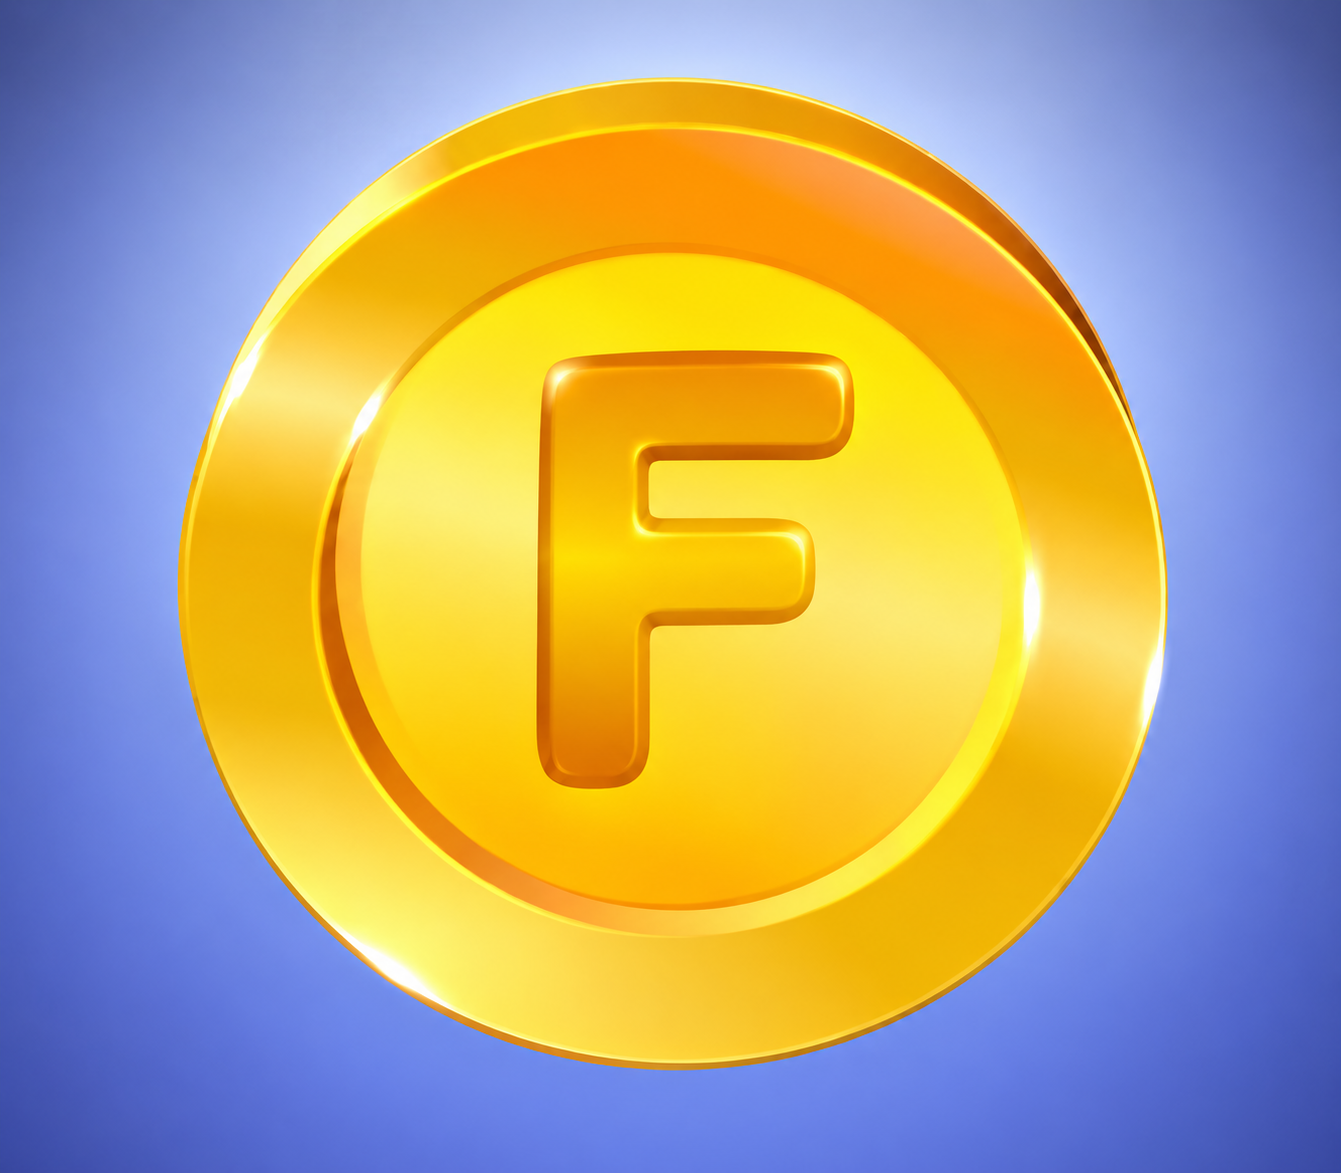
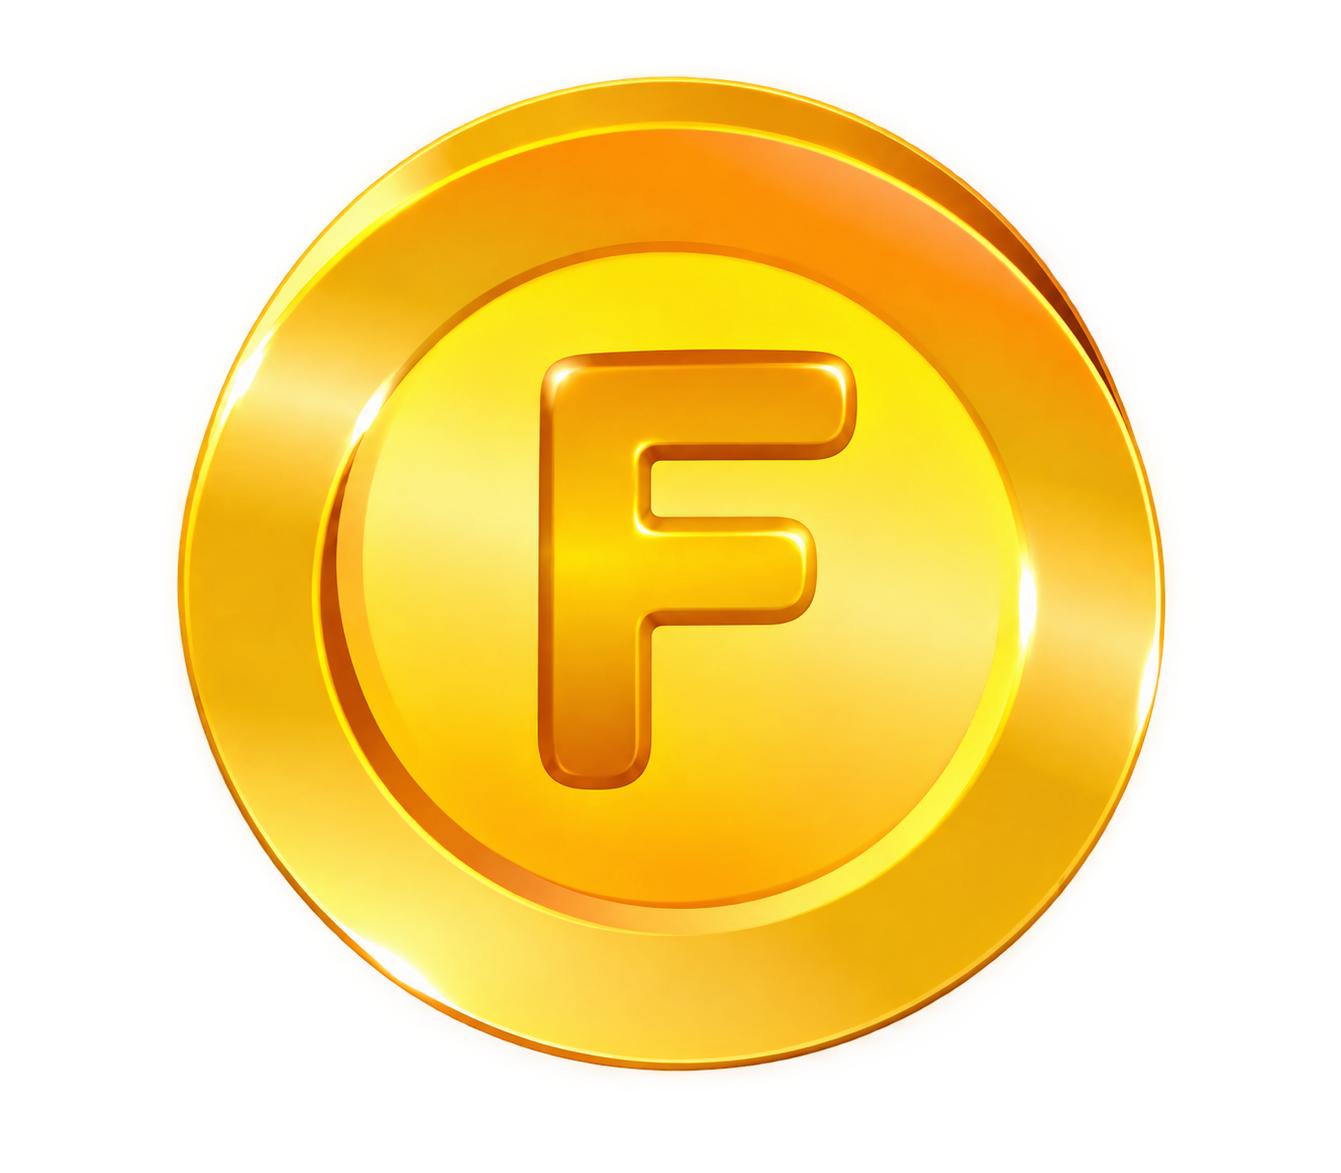
Add files via upload

diff --git a/index.html b/index.html
@@ -88,9 +88,10 @@
     .balance-unit { font-size:13px; color:var(--gold); margin-right:6px; text-shadow:0 0 14px #ffd45a80; }
     .wallet-icon { position:relative; width:42px; height:42px; flex:none; border-radius:50%; display:grid; place-items:center; font-size:20px; color:#fff1b4; background:linear-gradient(145deg,#fff4a9,#f7b824 60%,#b45a12); border:1px solid #fff4b878; box-shadow:inset 0 2px 3px #fff9, inset 0 -4px 7px #74370a8c,0 5px 14px #e99f2440; text-shadow:0 2px 3px #74400b; }
     .coin-area { min-height:clamp(300px, 45vh, 390px); display:flex; align-items:center; justify-content:center; flex-direction:column; padding:3px 0 5px; perspective:1100px; }
-    .coin-button { position:relative; isolation:isolate; display:grid; place-items:center; border:0; cursor:pointer; width:min(72vw, 310px); aspect-ratio:1; border-radius:50%; padding:0; color:inherit; background:transparent; filter:drop-shadow(0 21px 20px #0009) drop-shadow(0 0 20px #ffb51e55); transform:perspective(900px) rotateX(4deg) rotateY(0deg); transform-origin:center; transition:transform .15s cubic-bezier(.22,.7,.25,1),filter .15s ease; backface-visibility:hidden; user-select:none; touch-action:none; -webkit-user-select:none; }
+    .coin-button { position:relative; isolation:isolate; display:grid; place-items:center; border:0; cursor:pointer; width:min(75vw, 326px); aspect-ratio:1; border-radius:50%; padding:0; color:inherit; background:transparent; filter:drop-shadow(0 21px 20px #0009) drop-shadow(0 0 20px #ffb51e55); transform:perspective(900px) rotateX(4deg) rotateY(0deg); transform-origin:center; transition:transform .15s cubic-bezier(.22,.7,.25,1),filter .15s ease; backface-visibility:hidden; user-select:none; touch-action:none; -webkit-user-select:none; }
     .coin-button:before,.coin-button:after { content:none; }
     .coin-button.is-pressed { transform:perspective(900px) rotateX(calc(4deg + var(--tap-rot-x,0deg))) rotateY(var(--tap-rot-y,0deg)) translateZ(-4px) scale(.99); filter:drop-shadow(0 12px 10px #000b) drop-shadow(0 0 13px #ffb51e35) brightness(.92); transition-duration:.07s; }
+    .coin-button.is-boosted { filter:drop-shadow(0 21px 20px #0009) drop-shadow(0 0 24px #a442ffb5); }
     .coin-button:disabled { cursor:wait; filter:saturate(.9) brightness(.94); }
     .coin-face { position:absolute; z-index:1; inset:0; width:100%; height:100%; border-radius:50%; pointer-events:none; object-fit:contain; }
     .coin-engraving,.coin-letter,.coin-glint { display:none; }
@@ -101,6 +102,34 @@
     .tap-hint { margin-top:22px; color:#c5c2d0; font-size:13px; }
     .tap-hint strong { color:var(--gold); }
     .tap-hint strong { display:inline-block; padding:5px 10px; margin-right:3px; border:1px solid #ffd45a28; border-radius:999px; background:linear-gradient(135deg,#ffd45a16,#ffad3208); box-shadow:inset 0 1px #fff2,0 4px 14px #0002; }
+    .tap-actions { display:flex; direction:ltr; align-items:center; justify-content:center; gap:10px; margin-top:15px; }
+    .tap-actions .tap-hint { direction:rtl; margin:0; }
+    .boost-control { display:flex; align-items:center; gap:6px; }
+    .boost-button { position:relative; overflow:hidden; min-width:108px; border:1px solid #dd9dff70; border-radius:13px; padding:10px 15px; color:#fff; background:linear-gradient(120deg,#8e2de2,#4a00e0 55%,#b64cff); box-shadow:0 0 18px #9d45ff55,inset 0 1px #fff6; font-size:13px; font-weight:900; cursor:pointer; transition:transform .12s ease,filter .15s ease; }
+    .boost-button:before { content:""; position:absolute; inset:-50% auto -50% -35%; width:22px; transform:rotate(25deg); background:#ffffff50; filter:blur(6px); animation:boost-shine 2.8s ease-in-out infinite; pointer-events:none; }
+    .boost-button:active { transform:scale(.96); }
+    .boost-button:disabled { opacity:.48; cursor:not-allowed; filter:saturate(.55); }
+    .boost-count { min-width:39px; padding:6px 7px; border:1px solid #c89bff45; border-radius:10px; color:#e7c7ff; background:#7d36ba24; direction:ltr; text-align:center; font-size:11px; font-weight:900; font-variant-numeric:tabular-nums; }
+    .boost-button.is-active { box-shadow:0 0 23px #bd62ffb5,inset 0 1px #fff9; animation:boost-pulse .8s ease-in-out infinite alternate; }
+    @keyframes boost-shine { 0%,70% { left:-35%; } 100% { left:130%; } }
+    @keyframes boost-pulse { to { filter:brightness(1.3); } }
+    @media (max-width:380px) {
+      .tap-actions { gap:6px; }
+      .boost-button { min-width:88px; padding:9px 10px; }
+      .boost-count { min-width:35px; padding:6px 5px; }
+      .tap-hint { font-size:11px; }
+      .tap-hint strong { padding:5px 7px; }
+    }
+    .boost-dialog { width:min(calc(100% - 36px),420px); padding:0; border:1px solid #d39aff88; border-radius:22px; color:#fff; background:radial-gradient(ellipse at 50% 0,#8b35dc35,transparent 65%),#171420; box-shadow:0 22px 80px #000b,0 0 32px #a744ff2c; }
+    .boost-dialog::backdrop { background:#08060dcc; backdrop-filter:blur(5px); }
+    .boost-dialog-content { padding:23px; text-align:center; }
+    .boost-dialog-icon { width:58px; height:58px; margin:0 auto 12px; display:grid; place-items:center; border:1px solid #e0b6ff70; border-radius:19px; background:linear-gradient(145deg,#af60ff,#6218ba); box-shadow:0 0 22px #a744ff70; font-size:29px; }
+    .boost-dialog h2 { margin:0 0 9px; font-size:19px; }
+    .boost-dialog p { margin:0; color:#cbc4d8; font-size:12px; line-height:2; }
+    .boost-dialog-actions { display:grid; grid-template-columns:1fr 1fr; gap:9px; margin-top:18px; }
+    .boost-dialog-actions button { border:1px solid var(--border); border-radius:12px; padding:12px 8px; background:#ffffff0c; cursor:pointer; font-size:12px; font-weight:800; }
+    .boost-dialog-actions .boost-confirm { border-color:#d2a0ff66; color:#fff; background:linear-gradient(110deg,#a143ee,#6922bd); }
+    .boost-dialog-actions button:disabled { opacity:.5; cursor:wait; }
     .energy-card { background:var(--panel); border:1px solid var(--border); border-radius:18px; padding:15px 16px; }
     .energy-top { display:flex; justify-content:space-between; align-items:center; font-size:13px; }
     .energy-top span:first-child { color:#e9e7f0; }
@@ -196,7 +225,7 @@
     .tab-button:focus-visible,.upgrade-button:focus-visible,.invite-actions button:focus-visible { outline:2px solid #ffe28b; outline-offset:2px; }
     footer { color:#656371; font-size:10px; text-align:center; padding-top:17px; }
     @media (max-width:380px) { .app { padding-left:15px;padding-right:15px; } h1{font-size:23px;} .tab-bar{gap:2px;padding:5px;} .tab-button{font-size:9px;padding:8px 2px;} .tab-button span{font-size:16px;} }
-    @media (max-width:360px), (max-height:700px) { .coin-area{min-height:265px;padding:0;} .coin-button{width:min(65vw,252px);} .tap-hint{margin-top:12px;} }
+    @media (max-width:360px), (max-height:700px) { .coin-area{min-height:265px;padding:0;} .coin-button{width:min(69vw,264px);} .tap-hint{margin-top:12px;} }
     @media (prefers-reduced-motion: reduce) { .coin-button { transition-duration:.01ms !important; } .tap-float { animation-duration:.01ms; } }
   </style>
 </head>
@@ -231,7 +260,13 @@
         <button id="tapButton" class="coin-button" type="button" aria-label="جمع کردن یک F Coin" disabled>
           <img id="coinImage" class="coin-face" src="FCoin.png" alt="" draggable="false">
         </button>
-        <div class="tap-hint">هر ضربه <strong id="tapPowerHint">+1 F Coin</strong></div>
+        <div class="tap-actions">
+          <div class="boost-control">
+            <button id="boostButton" class="boost-button" type="button" disabled>تقویت</button>
+            <span id="boostCount" class="boost-count">0/3</span>
+          </div>
+          <div class="tap-hint">هر ضربه <strong id="tapPowerHint">+1 F Coin</strong></div>
+        </div>
       </section>
       <section class="energy-card" aria-label="انرژی">
         <div class="energy-top"><span>⚡ انرژی</span><span class="energy-count"><b id="energyValue">—</b> <em>/ <span id="energyMax">1000</span></em></span></div>
@@ -240,6 +275,17 @@
       </section>
       <footer>موجودی شما از سرور دریافت و تأیید میشود.</footer>
     </section>
+    <dialog id="boostDialog" class="boost-dialog" aria-labelledby="boostDialogTitle">
+      <div class="boost-dialog-content">
+        <div class="boost-dialog-icon" aria-hidden="true">⚡</div>
+        <h2 id="boostDialogTitle">تقویت ویژه</h2>
+        <p>با فعالسازی، قدرت هر ضربهات ۵ برابر میشود و بهمدت ۱۰ ثانیه بدون مصرف انرژی میتوانی ضربه بزنی؛ حتی اگر انرژیات صفر باشد. این قابلیت روزانه ۳ بار قابل استفاده است.<br><br>الان فعالش میکنی؟</p>
+        <div class="boost-dialog-actions">
+          <button id="boostCancelButton" type="button">فعلاً نه</button>
+          <button id="boostConfirmButton" class="boost-confirm" type="button">بله، فعال کن</button>
+        </div>
+      </div>
+    </dialog>
     <section id="convertPanel" class="tab-panel" aria-label="تبدیل">
       <div class="placeholder-card">
         <div class="placeholder-icon">🔄</div>
@@ -362,6 +408,10 @@
       const selfApp = $("selfApp");
       const missionList = $("missionList");
       const claimDailyButton = $("claimDailyButton");
+      const boostButton = $("boostButton");
+      const boostDialog = $("boostDialog");
+      const boostConfirmButton = $("boostConfirmButton");
+      new Image().src = "boost.png";
       const inviteLink = $("inviteLink");
       const copyInviteButton = $("copyInviteButton");
       const shareInviteButton = $("shareInviteButton");
@@ -374,6 +424,8 @@
       let tapDisplayFrame = 0;
       let tapReleaseTimer = 0;
       let coinBackgroundProcessed = false;
+      let normalCoinImage = "";
+      let boostTicker = 0;
       let selfFeaturePage = 0;
       let selfLockChatId = "";
       const tapLabels = new Set();
@@ -435,10 +487,15 @@
           max_energy: maxEnergy,
           energy_level: inferredEnergyLevel,
           tap_power: tapPower !== null && tapPower > 0 ? tapPower : 1,
+          boost_uses: Number.isInteger(state.boost_uses) ? state.boost_uses : 0,
+          boost_limit: Number.isInteger(state.boost_limit) ? state.boost_limit : 3,
+          boost_until: Number.isFinite(Number(state.boost_until)) ? Number(state.boost_until) : 0,
           upgrades_supported: tapPower !== null &&
             (reportedMaxEnergy !== null || energyLevel !== null)
         };
         connectionError.hidden = true;
+        syncBoostVisual();
+        scheduleBoostTicker();
         updateWalletDisplay();
         renderAccount(serverState);
         updateButtons();
@@ -484,8 +541,10 @@
 
       function updateWalletDisplay() {
         if (!serverState) return;
+        syncBoostVisual();
+        const tapPower = effectiveTapPower();
         $("fcoinBalance").replaceChildren(document.createTextNode(
-          (serverState.fcoin_balance + (queuedTaps + inFlightTaps) * serverState.tap_power).toLocaleString("en-US")
+          (serverState.fcoin_balance + (queuedTaps + inFlightTaps) * tapPower).toLocaleString("en-US")
         ));
         const unit = document.createElement("span");
         unit.className = "balance-unit";
@@ -496,8 +555,41 @@
         $("energyMax").textContent = serverState.max_energy.toLocaleString("en-US");
         $("energyBar").style.width = (energy / serverState.max_energy * 100) + "%";
         $("botBalance").textContent = serverState.bot_coin_balance.toLocaleString("en-US");
-        $("tapPowerHint").textContent = "+" + serverState.tap_power + " F Coin";
-        tapButton.setAttribute("aria-label", "جمع کردن " + serverState.tap_power + " F Coin");
+        $("tapPowerHint").textContent = "+" + tapPower + " F Coin";
+        tapButton.setAttribute("aria-label", "جمع کردن " + tapPower + " F Coin");
+      }
+
+      function isBoostActive() {
+        return !!serverState && serverState.boost_until * 1000 > Date.now();
+      }
+
+      function effectiveTapPower() {
+        return serverState
+          ? serverState.tap_power * (isBoostActive() ? 5 : 1)
+          : 1;
+      }
+
+      function syncBoostVisual() {
+        const image = $("coinImage");
+        const source = isBoostActive() ? "boost.png" : (normalCoinImage || "FCoin.png");
+        if (image.getAttribute("src") !== source) image.setAttribute("src", source);
+        tapButton.classList.toggle("is-boosted", isBoostActive());
+      }
+
+      function scheduleBoostTicker() {
+        if (isBoostActive() && !boostTicker) {
+          boostTicker = window.setInterval(() => {
+            if (!isBoostActive()) {
+              window.clearInterval(boostTicker);
+              boostTicker = 0;
+            }
+            updateWalletDisplay();
+            updateButtons();
+          }, 200);
+        } else if (!isBoostActive() && boostTicker) {
+          window.clearInterval(boostTicker);
+          boostTicker = 0;
+        }
       }
 
       function availableEnergy() {
@@ -508,7 +600,8 @@
           : 0;
         const regenerated = elapsed * 10 / 60;
         const energy = Math.min(serverState.max_energy, serverState.energy + regenerated);
-        return Math.max(0, energy - (queuedTaps + inFlightTaps) * serverState.tap_power);
+        const reserved = isBoostActive() ? 0 : (queuedTaps + inFlightTaps) * serverState.tap_power;
+        return Math.max(0, energy - reserved);
       }
 
       function renderConnection(connected) {
@@ -526,7 +619,8 @@
       function updateButtons() {
         const canAct = !!serverState;
         tapButton.disabled = busy || !canAct ||
-          Math.floor(availableEnergy() + 1e-9) < serverState.tap_power;
+          (!isBoostActive() && Math.floor(availableEnergy() + 1e-9) < serverState.tap_power);
+        updateBoostControls();
         $("selectAllExchangeButton").disabled = busy || flushingTaps || queuedTaps > 0 ||
           inFlightTaps > 0 || !canAct || serverState.fcoin_balance < 500;
         exchangeButton.disabled = busy || flushingTaps || queuedTaps > 0 || inFlightTaps > 0 ||
@@ -567,8 +661,8 @@
           tapButtonUpgrade.disabled = true;
           return;
         }
-        const energyCosts = [2000, 3000, 4000];
-        const energyTargets = [2000, 3000, 4000];
+        const energyCosts = [2000, 3000, 4000, 5000];
+        const energyTargets = [2000, 3000, 4000, 5000];
         const level = serverState.energy_level;
         if (level >= energyCosts.length) {
           $("energyUpgradeStatus").textContent = "ظرفیت فعلی: " + serverState.max_energy.toLocaleString("en-US") + " · حداکثر";
@@ -588,7 +682,7 @@
             serverState.fcoin_balance < cost;
         }
         const nextPower = serverState.tap_power + 1;
-        if (nextPower > 7) {
+        if (nextPower > 10) {
           $("tapUpgradeStatus").textContent = "قدرت فعلی: +" + serverState.tap_power + " · حداکثر";
           $("tapUpgradeNote").textContent = "همهٔ سطحهای قدرت ضربه را گرفتهای.";
           tapButtonUpgrade.textContent = "قدرت تپ کامل شد ✓";
@@ -605,6 +699,20 @@
           tapButtonUpgrade.disabled = busy || flushingTaps || queuedTaps > 0 || inFlightTaps > 0 ||
             serverState.fcoin_balance < cost;
         }
+      }
+
+      function updateBoostControls() {
+        const uses = serverState ? serverState.boost_uses : 0;
+        const limit = serverState ? serverState.boost_limit : 3;
+        const active = isBoostActive();
+        const remaining = active
+          ? Math.max(1, Math.ceil(serverState.boost_until - Date.now() / 1000))
+          : 0;
+        $("boostCount").textContent = Math.min(uses, limit) + "/" + limit;
+        boostButton.textContent = active ? "فعال · " + remaining + " ثانیه" : "تقویت";
+        boostButton.classList.toggle("is-active", active);
+        boostButton.disabled = busy || !serverState || active || uses >= limit;
+        boostConfirmButton.disabled = busy || !serverState || active || uses >= limit;
       }
 
       async function apiRequest(endpoint, body = {}) {
@@ -1754,6 +1862,10 @@
               ? result.upgrade_cost.toLocaleString("en-US")
               : "";
             showStatus(cost ? title + " ارتقا یافت؛ " + cost + " F Coin پرداخت شد." : successMessage, "info");
+          } else if (endpoint === "boost") {
+            if (typeof boostDialog.close === "function") boostDialog.close();
+            else boostDialog.removeAttribute("open");
+            showStatus("تقویت فعال شد؛ ۱۰ ثانیه فرصت داری!", "info");
           } else {
             showStatus(successMessage, "info");
           }
@@ -1803,7 +1915,7 @@
           event.preventDefault();
         }
         if (!serverState ||
-            Math.floor(availableEnergy() + 1e-9) < serverState.tap_power) return;
+            (!isBoostActive() && Math.floor(availableEnergy() + 1e-9) < serverState.tap_power)) return;
         queuedTaps += 1;
         const keyboardTap = event.type === "click" && event.detail === 0;
         const normalizedX = keyboardTap ? 0.5 :
@@ -1845,7 +1957,7 @@
         }
         const label = document.createElement("span");
         label.className = "tap-float";
-        label.textContent = "+" + serverState.tap_power;
+        label.textContent = "+" + effectiveTapPower();
         label.style.left = (normalizedX * 100) + "%";
         label.style.top = (normalizedY * 100) + "%";
         tapButton.append(label);
@@ -1857,28 +1969,40 @@
       }
 
       function removeCoinBackground() {
-        const image = $("coinImage");
-        if (coinBackgroundProcessed || !image.complete || !image.naturalWidth || !image.naturalHeight) return;
-        const canvas = document.createElement("canvas");
-        canvas.width = image.naturalWidth;
-        canvas.height = image.naturalHeight;
-        const context = canvas.getContext("2d", { willReadFrequently: true });
-        if (!context) throw new Error("پردازش تصویر سکه در این مرورگر پشتیبانی نمیشود.");
-        context.drawImage(image, 0, 0);
-        const pixels = context.getImageData(0, 0, canvas.width, canvas.height);
-        const data = pixels.data;
-        for (let index = 0; index < data.length; index += 4) {
-          const red = data[index];
-          const green = data[index + 1];
-          const blue = data[index + 2];
-          if (blue > red * 1.18 && blue > green * 1.08 && blue - red > 18) {
-            data[index + 3] *= Math.max(0, 1 - (blue - red - 18) / 45);
+        if (coinBackgroundProcessed) return;
+        const image = new Image();
+        image.onload = () => {
+          if (!image.naturalWidth || !image.naturalHeight) return;
+          const canvas = document.createElement("canvas");
+          canvas.width = image.naturalWidth;
+          canvas.height = image.naturalHeight;
+          const context = canvas.getContext("2d", { willReadFrequently: true });
+          if (!context) {
+            showStatus("پردازش تصویر سکه در این مرورگر پشتیبانی نمیشود.", "error");
+            return;
           }
-        }
-        context.putImageData(pixels, 0, 0);
-        coinBackgroundProcessed = true;
-        image.onload = null;
-        image.src = canvas.toDataURL("image/png");
+          try {
+            context.drawImage(image, 0, 0);
+            const pixels = context.getImageData(0, 0, canvas.width, canvas.height);
+            const data = pixels.data;
+            for (let index = 0; index < data.length; index += 4) {
+              const red = data[index];
+              const green = data[index + 1];
+              const blue = data[index + 2];
+              if (blue > red * 1.18 && blue > green * 1.08 && blue - red > 18) {
+                data[index + 3] *= Math.max(0, 1 - (blue - red - 18) / 45);
+              }
+            }
+            context.putImageData(pixels, 0, 0);
+            normalCoinImage = canvas.toDataURL("image/png");
+            coinBackgroundProcessed = true;
+            syncBoostVisual();
+          } catch (error) {
+            showStatus(error && error.message ? error.message : "پسزمینهٔ سکه پردازش نشد.", "error");
+          }
+        };
+        image.onerror = () => showStatus("تصویر اصلی سکه بارگذاری نشد.", "error");
+        image.src = "FCoin.png";
       }
 
       function selectTab(panelId) {
@@ -1904,20 +2028,7 @@
       }
 
       tapButton.addEventListener("pointerdown", handleTap);
-      $("coinImage").addEventListener("load", () => {
-        try {
-          removeCoinBackground();
-        } catch (error) {
-          showStatus(error && error.message ? error.message : "پسزمینهٔ سکه پردازش نشد.", "error");
-        }
-      }, { once: true });
-      if ($("coinImage").complete && $("coinImage").naturalWidth) {
-        try {
-          removeCoinBackground();
-        } catch (error) {
-          showStatus(error && error.message ? error.message : "پسزمینهٔ سکه پردازش نشد.", "error");
-        }
-      }
+      removeCoinBackground();
       tapButton.addEventListener("click", (event) => {
         if (event.detail === 0) handleTap(event);
       });
@@ -1941,6 +2052,19 @@
         "upgrade",
         "قدرت تپ با موفقیت ارتقا یافت.",
         { kind: "tap" }
+      ));
+      boostButton.addEventListener("click", () => {
+        if (!serverState || boostButton.disabled) return;
+        if (typeof boostDialog.showModal === "function") boostDialog.showModal();
+        else boostDialog.setAttribute("open", "");
+      });
+      $("boostCancelButton").addEventListener("click", () => {
+        if (typeof boostDialog.close === "function") boostDialog.close();
+        else boostDialog.removeAttribute("open");
+      });
+      boostConfirmButton.addEventListener("click", () => runAction(
+        "boost",
+        "تقویت فعال شد؛ ۱۰ ثانیه فرصت داری!"
       ));
       copyInviteButton.addEventListener("click", async () => {
         if (!inviteLink.dataset.link) return;
